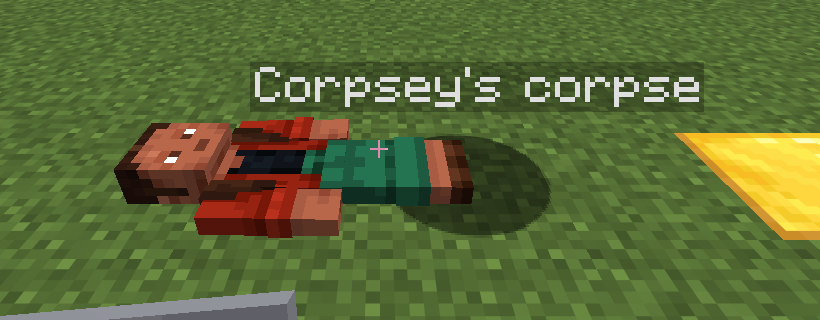
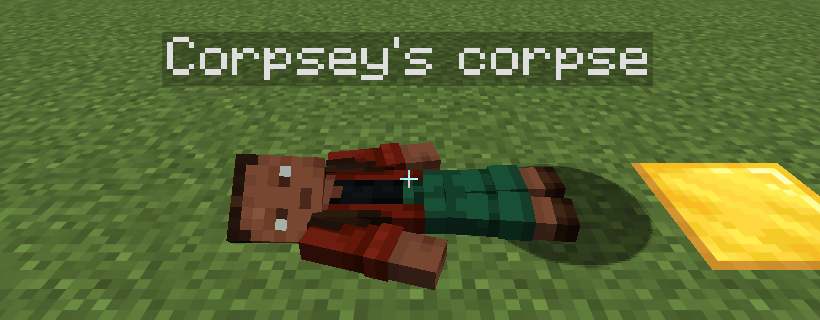
Center corpses and make them look dead
The lying body is drawn from its feet, so the corpse now spawns half a body
back to center it on the death spot, turning a quarter if a wall is in the
way. The name moves to the hitbox so it floats over the middle.

Client side, corpses get ashen skin and a limp pose (head rolled aside,
slack arms and legs). Head roll can't be done server-side: clients take a
spawned mannequin's body rotation from its head rotation.

diff --git a/src/main/java/com/evandev/reliable_requiem/corpse/Corpses.java b/src/main/java/com/evandev/reliable_requiem/corpse/Corpses.java
@@ -8,6 +8,7 @@ import com.evandev.reliable_requiem.mixin.MannequinAccessor;
 import com.evandev.reliable_requiem.modules.RequiemModules;
 import com.evandev.reliable_requiem.platform.Services;
 import net.minecraft.network.chat.Component;
+import net.minecraft.network.chat.contents.TranslatableContents;
 import net.minecraft.server.level.ServerLevel;
 import net.minecraft.server.level.ServerPlayer;
 import net.minecraft.server.permissions.Permissions;
@@ -27,7 +28,9 @@ import net.minecraft.world.inventory.ChestMenu;
 import net.minecraft.world.item.ItemStack;
 import net.minecraft.world.item.component.ResolvableProfile;
 import net.minecraft.world.level.levelgen.Heightmap;
+import net.minecraft.world.phys.AABB;
 import net.minecraft.world.phys.Vec3;
+import org.jetbrains.annotations.Nullable;
 
 import java.util.ArrayList;
 import java.util.List;
@@ -91,8 +94,8 @@ public final class Corpses {
         corpse.setPose(Pose.SLEEPING);
         corpse.setNoGravity(true);
         corpse.setPermanentlyInvulnerable(true);
-        corpse.setCustomName(Component.translatableWithFallback("entity.last_rites.corpse", "%s's corpse", player.getName()));
-        corpse.setCustomNameVisible(true);
+        // The name is the client's corpse marker and the menu title; the hitbox shows it, centered over the body.
+        corpse.setCustomName(Component.translatableWithFallback(NAME_KEY, "%s's corpse", player.getName()));
 
         Vec3 pos = player.position();
         double y = pos.y;
@@ -101,9 +104,13 @@ public final class Corpses {
             int top = level.getHeight(Heightmap.Types.MOTION_BLOCKING, (int) Math.floor(pos.x), (int) Math.floor(pos.z));
             y = top > level.getMinY() ? top : level.getMinY() + 1;
         }
-        corpse.snapTo(pos.x, y, pos.z, player.getYRot(), 0.0F);
-        corpse.setYBodyRot(player.getYRot());
-        corpse.setYHeadRot(player.getYRot());
+        // A lying body is drawn from its feet, so the feet go half a body back to center it where the player died.
+        float yaw = clearYaw(level, pos.x, y, pos.z, player.getYRot());
+        Vec3 head = headDirection(yaw);
+        corpse.snapTo(pos.x - head.x * HALF_BODY, y, pos.z - head.z * HALF_BODY, yaw, 0.0F);
+        // Clients take a spawned mannequin's body rotation from its head rotation, so the two must match.
+        corpse.setYBodyRot(yaw);
+        corpse.setYHeadRot(yaw);
 
         ICorpse data = (ICorpse) corpse;
         data.lastRites$makeCorpse(player.getUUID(), player.getGameProfile().name(), level.getGameTime());
@@ -125,21 +132,48 @@ public final class Corpses {
                 (int) Math.floor(pos.x), (int) Math.floor(y), (int) Math.floor(pos.z), level.dimension().identifier());
     }
 
+    public static final String NAME_KEY = "entity.last_rites.corpse";
     private static final String HITBOX_TAG = "last_rites.corpse_hitbox=";
+    /** Half the length of a lying player model. */
+    private static final double HALF_BODY = 0.9;
+
+    /** Where a lying body's head points from its feet. */
+    private static Vec3 headDirection(float yaw) {
+        double rad = Math.toRadians(yaw);
+        return new Vec3(-Math.cos(rad), 0.0, Math.sin(rad));
+    }
+
+    /** The player's facing, or a quarter turn of it if that keeps the body out of a wall. */
+    private static float clearYaw(ServerLevel level, double x, double y, double z, float yaw) {
+        for (int turn = 0; turn < 2; turn++) { // the body's box is symmetric, so half turns change nothing
+            float candidate = yaw + turn * 90.0F;
+            Vec3 h = headDirection(candidate).scale(HALF_BODY);
+            AABB body = new AABB(x - h.x, y, z - h.z, x + h.x, y + 0.3, z + h.z).inflate(0.25, 0.0, 0.25);
+            if (level.noCollision(body.move(0.0, 0.01, 0.0))) return candidate;
+        }
+        return yaw;
+    }
+
+    /** True for the name every corpse gets; clients use it to tell corpses from plain mannequins. */
+    public static boolean isCorpseName(@Nullable Component name) {
+        return name != null && name.getContents() instanceof TranslatableContents t && NAME_KEY.equals(t.getKey());
+    }
 
     /**
      * A lying mannequin's own hitbox is a 0.2 block cube at its feet, so the corpse gets an invisible interaction entity
-     * over its body. Its head points along (-cos yaw, 0, sin yaw) from its feet.
+     * over its body. It also shows the corpse's name, since the mannequin's own name tag would float over its feet.
      */
     private static void spawnHitbox(ServerLevel level, Mannequin corpse) {
         Interaction hitbox = EntityTypes.INTERACTION.create(level, EntitySpawnReason.TRIGGERED);
         if (hitbox == null) return;
-        double yaw = Math.toRadians(corpse.getYRot());
-        hitbox.snapTo(corpse.getX() - Math.cos(yaw) * 0.9, corpse.getY(), corpse.getZ() + Math.sin(yaw) * 0.9, 0.0F, 0.0F);
+        Vec3 h = headDirection(corpse.getYRot()).scale(HALF_BODY);
+        hitbox.snapTo(corpse.getX() + h.x, corpse.getY(), corpse.getZ() + h.z, 0.0F, 0.0F);
         InteractionAccessor a = (InteractionAccessor) hitbox;
         a.lastRites$setWidth(1.2F);
         a.lastRites$setHeight(0.5F);
         a.lastRites$setResponse(true);
+        hitbox.setCustomName(corpse.getCustomName());
+        hitbox.setCustomNameVisible(true);
         hitbox.addTag(HITBOX_TAG + corpse.getStringUUID());
         level.addFreshEntity(hitbox);
         ((ICorpse) corpse).lastRites$setHitbox(hitbox.getUUID());

diff --git a/src/main/java/com/evandev/reliable_requiem/mixin/PlayerModelMixin.java b/src/main/java/com/evandev/reliable_requiem/mixin/PlayerModelMixin.java
@@ -1,0 +1,37 @@
+package com.evandev.reliable_requiem.mixin;
+
+import com.evandev.reliable_requiem.api.ICorpseRenderState;
+import net.minecraft.client.model.HumanoidModel;
+import net.minecraft.client.model.player.PlayerModel;
+import net.minecraft.client.model.geom.ModelPart;
+import net.minecraft.client.renderer.entity.state.AvatarRenderState;
+import org.spongepowered.asm.mixin.Mixin;
+import org.spongepowered.asm.mixin.injection.At;
+import org.spongepowered.asm.mixin.injection.Inject;
+import org.spongepowered.asm.mixin.injection.callback.CallbackInfo;
+
+@Mixin(PlayerModel.class)
+public abstract class PlayerModelMixin extends HumanoidModel<AvatarRenderState> {
+    protected PlayerModelMixin(ModelPart root) {
+        super(root);
+    }
+
+    /** A corpse lies limp: head rolled to one side, arms and legs slack and a little apart. */
+    @Inject(method = "setupAnim(Lnet/minecraft/client/renderer/entity/state/AvatarRenderState;)V", at = @At("TAIL"))
+    private void lastRites$limp(AvatarRenderState state, CallbackInfo ci) {
+        if (!((ICorpseRenderState) state).lastRites$isCorpse()) return;
+        head.xRot = 0.15F;
+        head.yRot = 0.7F;
+        head.zRot = 0.0F;
+        rightArm.xRot = 0.0F;
+        rightArm.yRot = 0.0F;
+        rightArm.zRot = 0.3F;
+        leftArm.xRot = 0.0F;
+        leftArm.yRot = 0.0F;
+        leftArm.zRot = -0.2F;
+        rightLeg.xRot = 0.0F;
+        rightLeg.zRot = 0.1F;
+        leftLeg.xRot = 0.0F;
+        leftLeg.zRot = -0.06F;
+    }
+}

diff --git a/src/main/java/com/evandev/reliable_requiem/mixin/LivingEntityRendererMixin.java b/src/main/java/com/evandev/reliable_requiem/mixin/LivingEntityRendererMixin.java
@@ -1,0 +1,25 @@
+package com.evandev.reliable_requiem.mixin;
+
+import com.evandev.reliable_requiem.api.ICorpseRenderState;
+import net.minecraft.client.renderer.entity.LivingEntityRenderer;
+import net.minecraft.client.renderer.entity.state.LivingEntityRenderState;
+import net.minecraft.util.ARGB;
+import org.spongepowered.asm.mixin.Mixin;
+import org.spongepowered.asm.mixin.Unique;
+import org.spongepowered.asm.mixin.injection.At;
+import org.spongepowered.asm.mixin.injection.Inject;
+import org.spongepowered.asm.mixin.injection.callback.CallbackInfoReturnable;
+
+@Mixin(LivingEntityRenderer.class)
+public class LivingEntityRendererMixin {
+    /** Ashen: greyer and cooler, with the blood gone from the skin. Armor and held items keep their colors. */
+    @Unique
+    private static final int LAST_RITES$CORPSE_TINT = 0xFFA4B0A8;
+
+    @Inject(method = "getModelTint", at = @At("RETURN"), cancellable = true)
+    private void lastRites$ashenCorpse(LivingEntityRenderState state, CallbackInfoReturnable<Integer> cir) {
+        if (state instanceof ICorpseRenderState corpse && corpse.lastRites$isCorpse()) {
+            cir.setReturnValue(ARGB.multiply(cir.getReturnValue(), LAST_RITES$CORPSE_TINT));
+        }
+    }
+}

diff --git a/src/main/java/com/evandev/reliable_requiem/mixin/AvatarRendererMixin.java b/src/main/java/com/evandev/reliable_requiem/mixin/AvatarRendererMixin.java
@@ -1,0 +1,20 @@
+package com.evandev.reliable_requiem.mixin;
+
+import com.evandev.reliable_requiem.api.ICorpseRenderState;
+import com.evandev.reliable_requiem.corpse.Corpses;
+import net.minecraft.client.renderer.entity.player.AvatarRenderer;
+import net.minecraft.client.renderer.entity.state.AvatarRenderState;
+import net.minecraft.world.entity.Avatar;
+import net.minecraft.world.entity.decoration.Mannequin;
+import org.spongepowered.asm.mixin.Mixin;
+import org.spongepowered.asm.mixin.injection.At;
+import org.spongepowered.asm.mixin.injection.Inject;
+import org.spongepowered.asm.mixin.injection.callback.CallbackInfo;
+
+@Mixin(AvatarRenderer.class)
+public class AvatarRendererMixin {
+    @Inject(method = "extractRenderState(Lnet/minecraft/world/entity/Avatar;Lnet/minecraft/client/renderer/entity/state/AvatarRenderState;F)V", at = @At("TAIL"))
+    private void lastRites$markCorpse(Avatar entity, AvatarRenderState state, float partialTicks, CallbackInfo ci) {
+        ((ICorpseRenderState) state).lastRites$setCorpse(entity instanceof Mannequin && Corpses.isCorpseName(entity.getCustomName()));
+    }
+}

diff --git a/src/main/java/com/evandev/reliable_requiem/mixin/AvatarRenderStateMixin.java b/src/main/java/com/evandev/reliable_requiem/mixin/AvatarRenderStateMixin.java
@@ -1,0 +1,22 @@
+package com.evandev.reliable_requiem.mixin;
+
+import com.evandev.reliable_requiem.api.ICorpseRenderState;
+import net.minecraft.client.renderer.entity.state.AvatarRenderState;
+import org.spongepowered.asm.mixin.Mixin;
+import org.spongepowered.asm.mixin.Unique;
+
+@Mixin(AvatarRenderState.class)
+public class AvatarRenderStateMixin implements ICorpseRenderState {
+    @Unique
+    private boolean lastRites$corpse;
+
+    @Override
+    public boolean lastRites$isCorpse() {
+        return lastRites$corpse;
+    }
+
+    @Override
+    public void lastRites$setCorpse(boolean corpse) {
+        lastRites$corpse = corpse;
+    }
+}

diff --git a/src/main/java/com/evandev/reliable_requiem/api/ICorpseRenderState.java b/src/main/java/com/evandev/reliable_requiem/api/ICorpseRenderState.java
@@ -1,0 +1,8 @@
+package com.evandev.reliable_requiem.api;
+
+/** Client render state flag for avatars that are corpses. */
+public interface ICorpseRenderState {
+    boolean lastRites$isCorpse();
+
+    void lastRites$setCorpse(boolean corpse);
+}

diff --git a/README.md b/README.md
@@ -12,8 +12,9 @@ penalties and adds corpses. It targets **Minecraft 26.3 on Fabric** only.
 
 ## Corpses
 
-* **Where you fell:** whatever Reliable Requiem doesn't let you keep goes into a corpse wearing your skin, lying where
-  you died. Your dropped experience goes into it too.
+* **Where you fell:** whatever Reliable Requiem doesn't let you keep goes into a corpse wearing your skin, lying
+  centered on the spot where you died (turned aside if a wall is in the way). Your dropped experience goes into it too.
+* **Looks dead:** ashen, greyed skin, head rolled to one side, arms and legs slack.
 * **Right-click** to open it. Items are laid out like your inventory: main rows, hotbar, armor and offhand, then
   accessories on the bottom row.
 * **Sneak + right-click** puts everything back into the slot it came from, including armor and
@@ -22,8 +23,8 @@ penalties and adds corpses. It targets **Minecraft 26.3 on Fabric** only.
 * **Safe:** corpses can't be hurt, pushed or burned and never despawn. They float where you died (in water, in the air).
   Die in the void and the corpse lies on the top block of that column instead. An empty corpse disappears.
 * **Locked to you** for 30 minutes of game time, then anyone can open it. Server operators can always open corpses.
-* Corpses are vanilla mannequins plus a vanilla interaction entity over the body (so it's easy to click), so they
-  need nothing extra on the client to render.
+* Corpses are vanilla mannequins plus a vanilla interaction entity over the body (so it's easy to click, and the name
+  floats over the middle). The ashen skin and limp pose are drawn by the mod on the client.
 * If a corpse is killed anyway (a creative player, `/kill`), it drops everything it holds.
 
 ![The corpse inventory](docs/images/corpse_gui.png)

diff --git a/CHANGELOG-LATEST.md b/CHANGELOG-LATEST.md
@@ -1,6 +1,7 @@
 ### Added
 
 - Corpses: items and experience dropped on death go into a corpse (a mannequin wearing the player's skin) where they died.
+    - The body lies centered where the player died, ashen and limp (the look is drawn by the mod on the client).
     - Right-click opens it; sneak + right-click puts every item back in the slot it came from, including Trinkets slots.
     - Owner-only for `corpseLockSeconds` (default 30 minutes of game time), operators can always open it.
     - Corpses can't be hurt or pushed and never despawn; an empty corpse disappears.

diff --git a/CHANGELOG.md b/CHANGELOG.md
@@ -3,6 +3,7 @@
 ### Added
 
 - Corpses: items and experience dropped on death go into a corpse (a mannequin wearing the player's skin) where they died.
+    - The body lies centered where the player died, ashen and limp (the look is drawn by the mod on the client).
     - Right-click opens it; sneak + right-click puts every item back in the slot it came from, including Trinkets slots.
     - Owner-only for `corpseLockSeconds` (default 30 minutes of game time), operators can always open it.
     - Corpses can't be hurt or pushed and never despawn; an empty corpse disappears.
